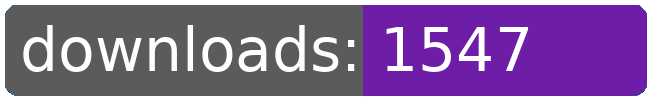
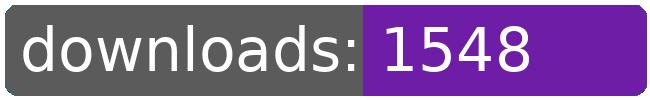
dl log written

Changed region(s): [[0.7692, 0.24, 0.8308, 0.72]]

diff --git a/README.md b/README.md
@@ -109,8 +109,8 @@
 		<td>1509</td>
 		<td>1526</td>
 		<td>1543</td>
-		<td>1547</td>
-		<td>+ 4</td>
+		<td>1548</td>
+		<td>+ 5</td>
 	</tr>
 	<tr>
 		<td>jumpdrive.extended</td>
@@ -274,8 +274,8 @@
 		<td></td>
 		<td></td>
 		<td></td>
-		<td>54063</td>
-		<td>114</td>
+		<td>54064</td>
+		<td>115</td>
 	</tr>
 </table>
 </sub></sup>
@@ -509,8 +509,8 @@
 		<td>1509</td>
 		<td>1526</td>
 		<td>1543</td>
-		<td>1547</td>
-		<td>+ 4</td>
+		<td>1548</td>
+		<td>+ 5</td>
 	</tr>
 	<tr>
 		<td>avgi.outfitter</td>
@@ -553,8 +553,8 @@
 		<td></td>
 		<td></td>
 		<td></td>
-		<td>54063</td>
-		<td>114</td>
+		<td>54064</td>
+		<td>115</td>
 	</tr>
 </table>
 </sub></sup>
@@ -562,7 +562,6 @@
 <table>
 	<tr>
 		<td> </td>
-		<td>2026-02-28</td>
 		<td>2026-03-01</td>
 		<td>2026-03-02</td>
 		<td>2026-03-03</td>
@@ -571,10 +570,10 @@
 		<td>2026-03-06</td>
 		<td>2026-03-07</td>
 		<td>2026-03-08</td>
+		<td>2026-03-09</td>
 	</tr>
 	<tr>
 		<td>page views</td>
-		<td>4</td>
 		<td>41</td>
 		<td>10</td>
 		<td>42</td>
@@ -583,10 +582,10 @@
 		<td>20</td>
 		<td>15</td>
 		<td>34</td>
+		<td>26</td>
 	</tr>
 	<tr>
 		<td>unique visitors</td>
-		<td>4</td>
 		<td>11</td>
 		<td>6</td>
 		<td>8</td>
@@ -595,6 +594,7 @@
 		<td>6</td>
 		<td>4</td>
 		<td>8</td>
+		<td>11</td>
 	</tr>
 </table>
 <br>
@@ -608,8 +608,8 @@
 	</tr>
 	<tr>
 		<td>2025-10-15</td>
-		<td>4338</td>
-		<td>1239</td>
+		<td>4364</td>
+		<td>1250</td>
 		<td>192</td>
 		<td>21</td>
 	</tr>
@@ -622,8 +622,8 @@
 	</tr>
 	<tr>
 		<td>146</td>
-		<td>29.71</td>
-		<td>8.49</td>
+		<td>29.89</td>
+		<td>8.56</td>
 		<td></td>
 		<td></td>
 	</tr>
